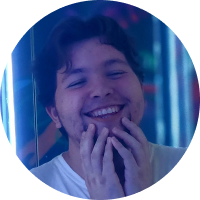
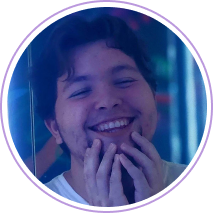
progress

diff --git a/index.html b/index.html
@@ -15,19 +15,27 @@
 
 <body>
     <main>
-        <img width="300" src="assets/pp.png">
+        <img class="profilePicture" src="assets/pp.png">
+
         <p>@felippematheo</p>
-        <ul>
-            <li><a href="https://www.linkedin.com/in/felippe-matheo" target="_blank">Conheça meu Linkedin</a></li>
-            <li><a href="https://www.linkedin.com/in/felippe-matheo" target="_blank">Conheça meu Linkedin</a></li>
-            <li><a href="https://www.linkedin.com/in/felippe-matheo" target="_blank">Conheça meu Linkedin</a></li>
-            <li><a href="https://www.linkedin.com/in/felippe-matheo" target="_blank">Conheça meu Linkedin</a></li>
-        </ul>
-        <img src="assets/twitter.svg">
-        <img src="assets/twitch.svg">
-        <img src="assets/instagram.svg">
-        <img src="assets/linkedin.svg">
-        <img src="assets/github.svg">
+
+        <section class="btnLinks">
+            <ul>
+                <li> <a href="https://www.linkedin.com/in/felippe-matheo" target="_blank">LINKEDIN</a></li>
+                <li> <a href="https://www.instagram.com/felippematheo" target="_blank">INSTAGRAM</a></li>
+                <li> <a href="https://github.com/matheofelippe" target="_blank">GITHUB/PORTFOLIO</a></li>
+                <li> <a href="https://wa.me/5515991559533?text=Ol%C3%A1%2C+Felippe%21" target="_blank">WHATSAPP</a></li>
+            </ul>
+        </section>
+
+        <section class="socialLinks">
+            <a href="https://x.com"><img src="assets/twitter.svg"></a>
+            <img src="assets/twitch.svg">
+            <img src="assets/instagram.svg">
+            <a href="https://linkedin.com/in/felippe-matheo/"><img src="assets/linkedin.svg"></a>
+            <img src="assets/github.svg">
+        </section>
     </main>
 </body>
+
 </html>

diff --git a/style.css b/style.css
@@ -3,11 +3,56 @@
     padding: 0;
     font-family: "Poppins", sans-serif;
     font-weight: 400;
-    font-style: normal;
-    background-color: #FAF7FD;
-    color: #BB99DD;
+    background-color: var(--body-bg-color);
+    color: var(--purple)
 }
+
+:root {
+    --body-bg-color: #FAF7FD;
+    --purple: #BB99DD;
+  }
 
 main{
     text-align: center;
+}
+
+p{
+    font-weight: 300;
+}
+
+.profilePicture{
+    padding: 126px 0 15px;
+    width: 200px;
+}
+
+ul{
+    list-style: none;
+    display: flex;
+    flex-direction: column;
+    gap: 16px;
+    padding: 33px 0 68px;
+}
+
+ul li{
+    border: 2px solid var(--purple);
+    border-radius: 4px;
+    padding: 12px 140px;
+}
+
+ul li a{
+    text-decoration: none;
+    font-weight: 500;
+}
+
+.btnLinks{
+    display: flex;
+    justify-content: center;
+}
+
+.socialLinks{
+    display: flex;
+    flex-direction: row;
+    justify-content: center;
+    gap: 29px;
+    text-decoration: none;
 }
